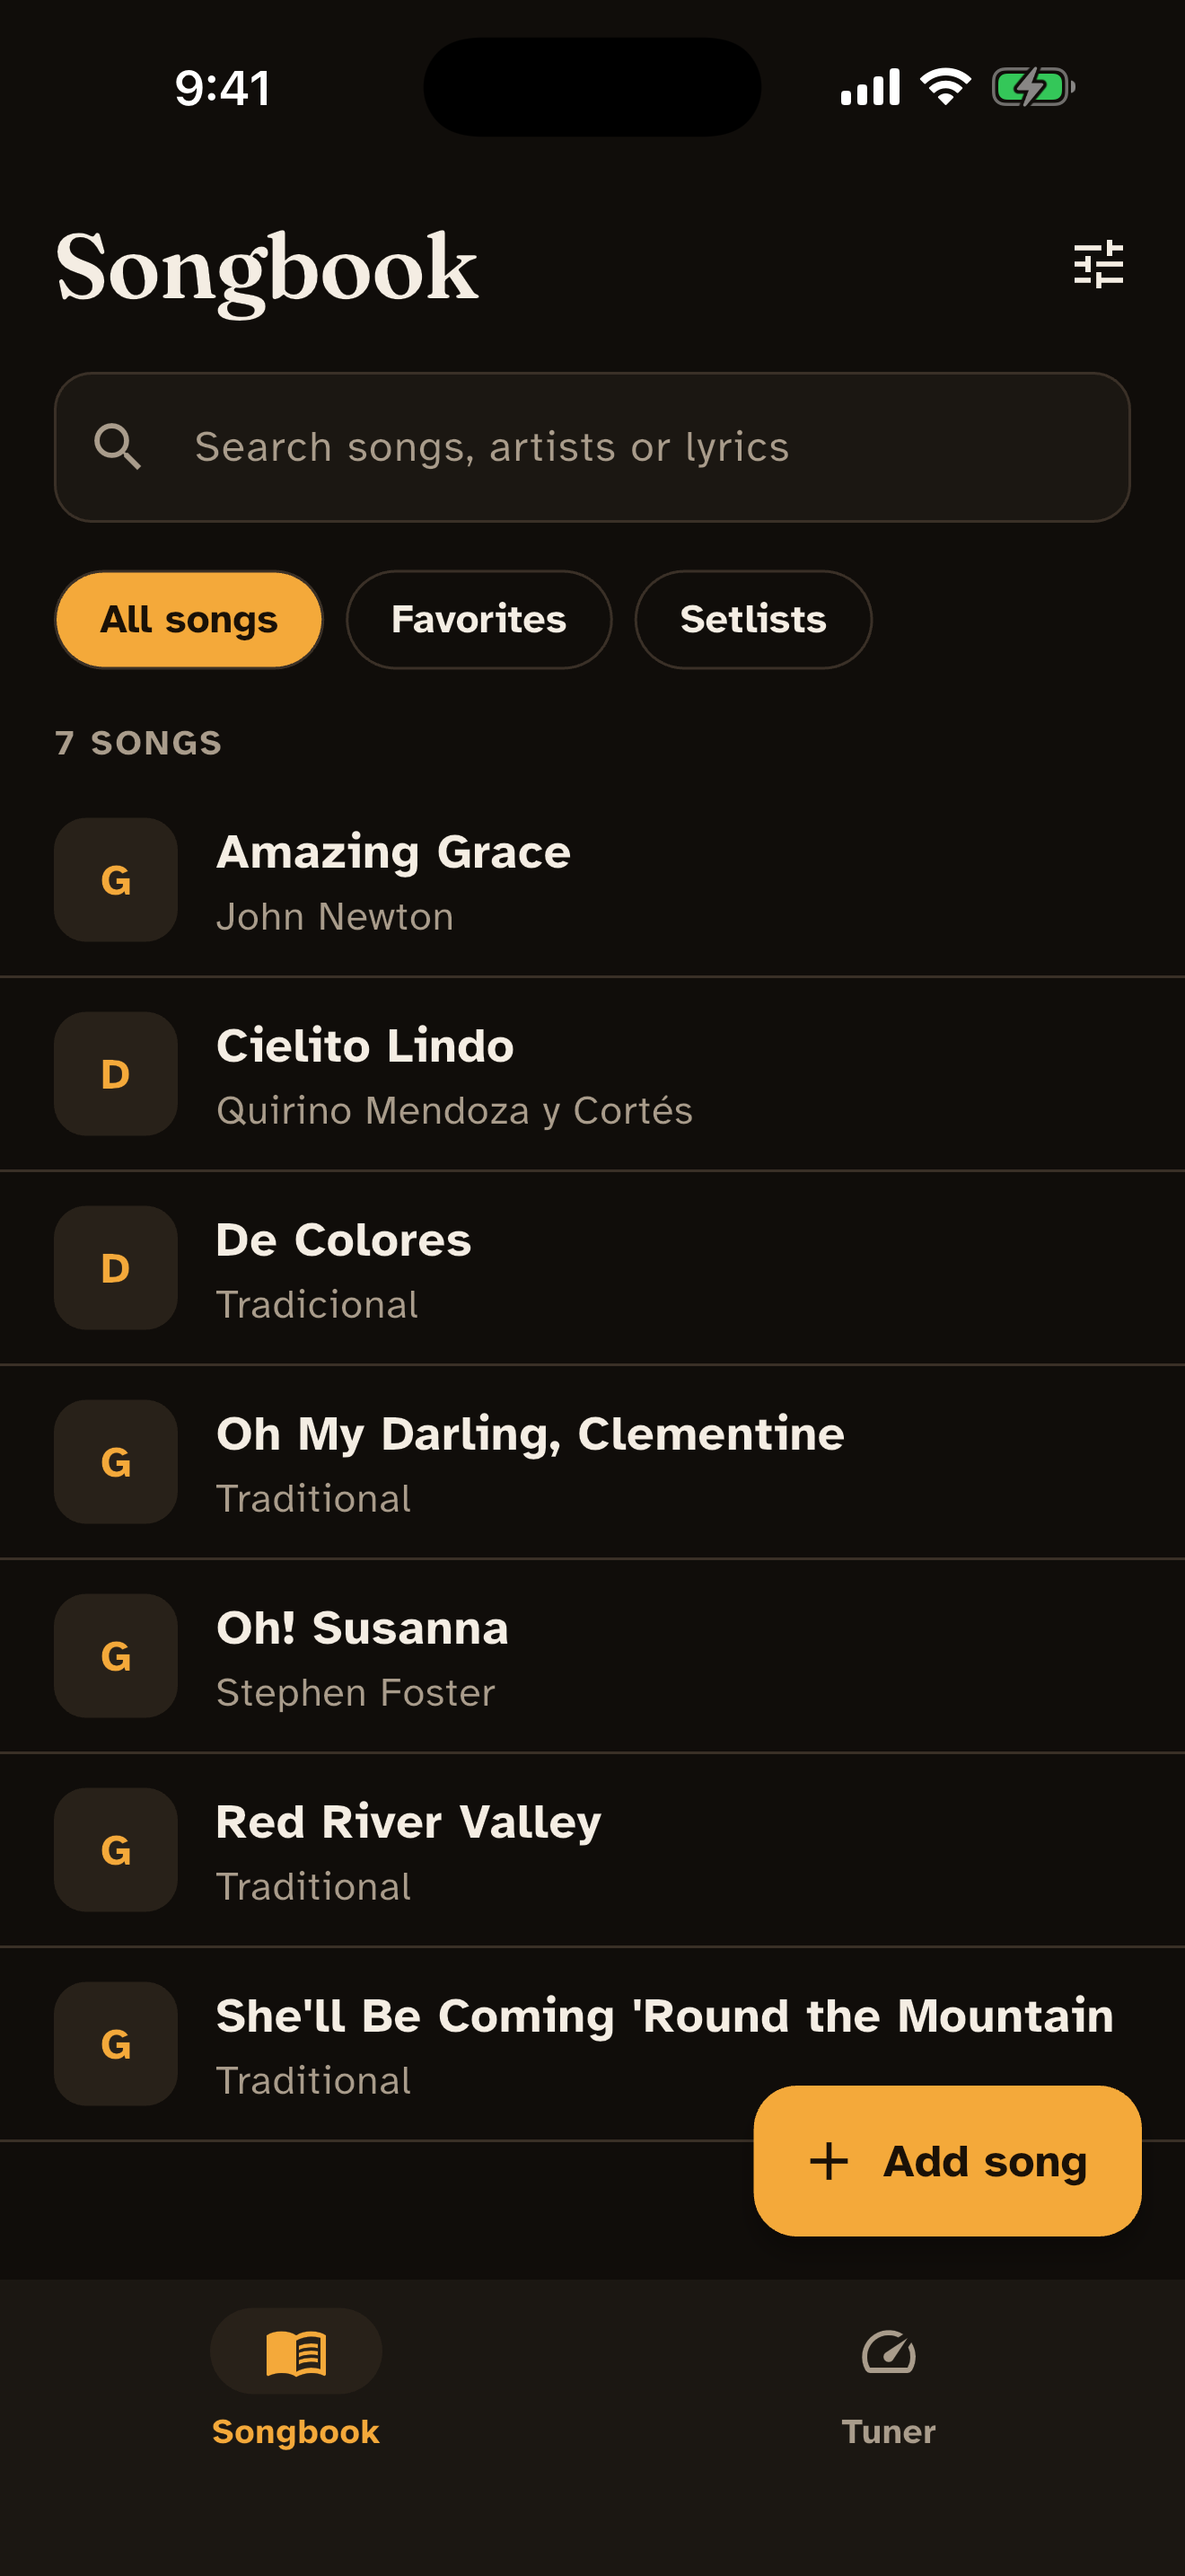
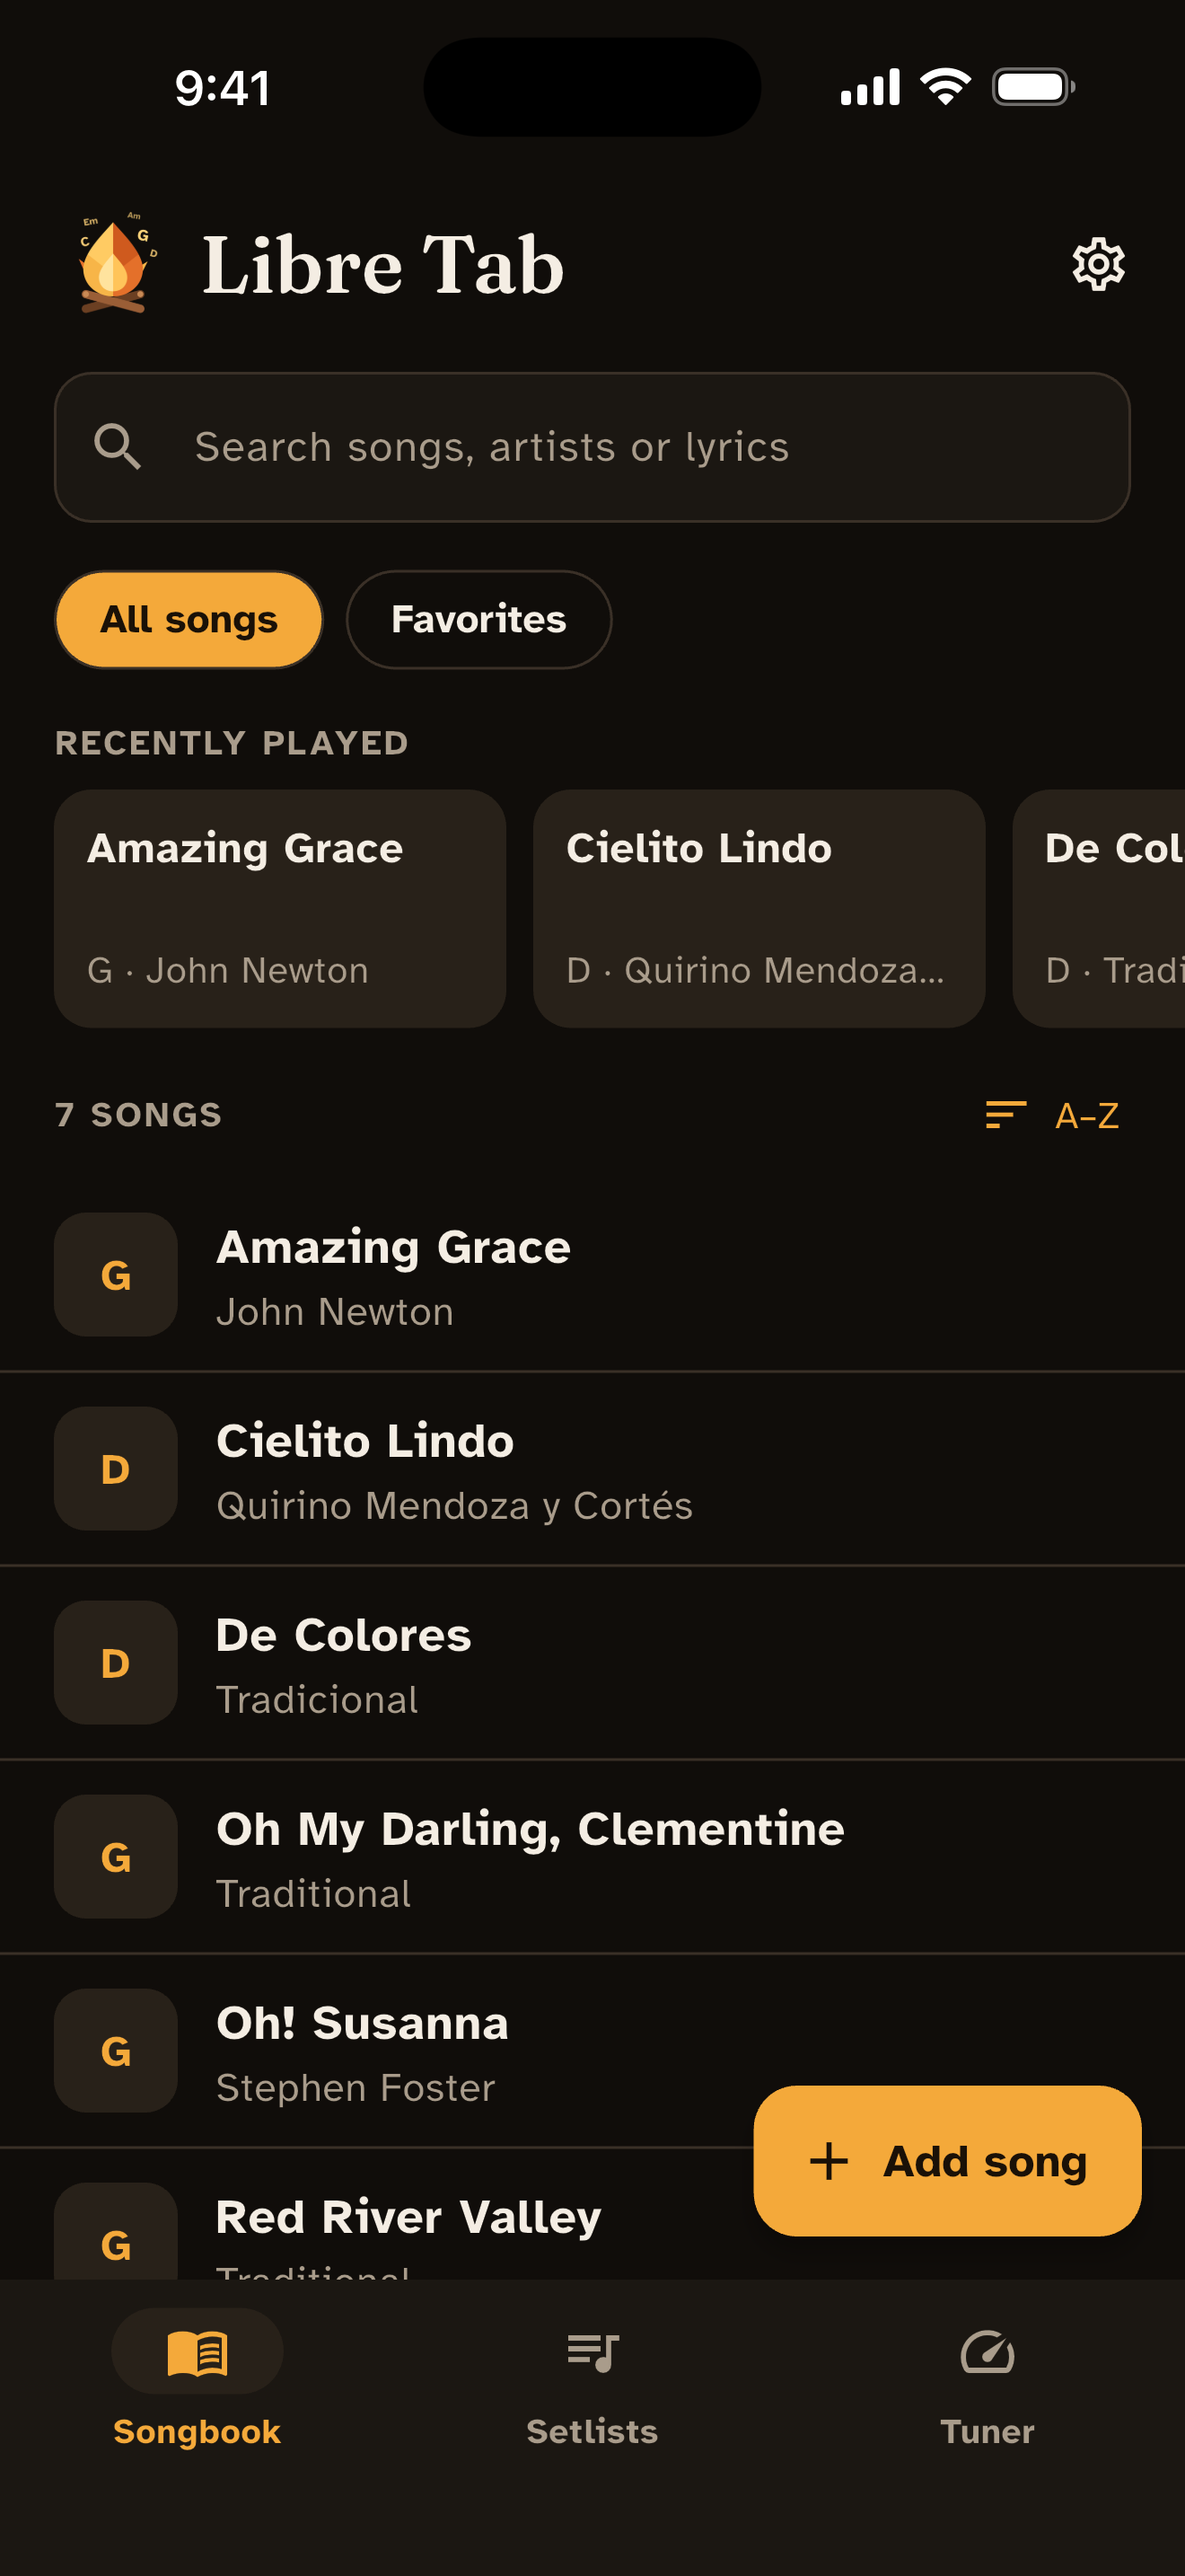
Fresh screenshots for iPhone, iPad and Android; header mark loads up front
All store screenshots retaken after the UI round, seven scenes on each
phone (now with Add song) and four on iPad: iPhone 17 Pro Max
1320 × 2868, iPad Pro 13" 2064 × 2752, Android 13 1080 × 1920, clean
status bars. The listing, the review notes and the README point at
them.

The header's flame was drawn a moment after the first frame (it
loaded on demand); both marks are now loaded as the app starts.

diff --git a/lib/app/app.dart b/lib/app/app.dart
@@ -6,6 +6,7 @@ import 'package:flutter_riverpod/flutter_riverpod.dart';
 import 'package:libre_tab/app/router.dart';
 import 'package:libre_tab/app/theme/app_theme.dart';
 import 'package:libre_tab/app/theme/theme_controller.dart';
+import 'package:libre_tab/app/widgets/app_logo.dart';
 import 'package:libre_tab/core/files/incoming_files.dart';
 import 'package:libre_tab/core/files/song_files.dart';
 import 'package:libre_tab/features/library/data/song_repository.dart';
@@ -26,6 +27,16 @@ class _LibreTabAppState extends ConsumerState<LibreTabApp> {
   void initState() {
     super.initState();
     ref.read(incomingFilesProvider).listen(_received);
+  }
+
+  @override
+  void didChangeDependencies() {
+    super.didChangeDependencies();
+    // The flame in every tab's header: loaded up front so it's there with
+    // the first frame instead of popping in after it.
+    for (final mark in BrandMark.assets) {
+      unawaited(precacheImage(AssetImage(mark), context));
+    }
   }
 
   /// A file from another app opens in Add song, as if picked with "Open

diff --git a/lib/app/widgets/app_logo.dart b/lib/app/widgets/app_logo.dart
@@ -46,11 +46,17 @@ class BrandMark extends ConsumerWidget {
 
   final double size;
 
+  static const _day = 'assets/images/mark.png';
+  static const _night = 'assets/images/mark-red-night.png';
+
+  /// Both marks, to load ahead of the first frame.
+  static const List<String> assets = [_day, _night];
+
   @override
   Widget build(BuildContext context, WidgetRef ref) {
     final night = ref.watch(themeVariantProvider) == AppThemeVariant.redNight;
     return Image.asset(
-      night ? 'assets/images/mark-red-night.png' : 'assets/images/mark.png',
+      night ? _night : _day,
       width: size,
       height: size,
       excludeFromSemantics: true,

diff --git a/docs/store/listing.md b/docs/store/listing.md
@@ -139,25 +139,26 @@ nunca quedan atrapadas.
 
 ## Screenshots and graphics
 
-`docs/store/screenshots/` — iPhone 17 Pro Max, 1320 × 2868 (App Store 6.9"
-size). Not for Google Play: Play rejects a long side more than twice the short
-one (2868 / 1320 = 2.17).
+Seven scenes, the same on every device (retaken 2026-09-24 after the UI
+round; status bar at 9:41):
 
-1. `1-songbook.png` — songbook with the starter songs
+1. `1-songbook.png` — the Libre Tab header, Recently played, the sort menu
 2. `2-song.png` — a song in campfire mode, with the dock
 3. `3-red-night-capo.png` — red-night theme, sounds in A with capo 2 (G shapes)
-4. `4-chord-diagrams.png` — chord diagrams, light theme
+4. `4-chord-diagrams.png` — chord diagrams with fret numbers, light theme
 5. `5-setlist.png` — a setlist
-6. `6-tuner.png` — the tuner (the simulator can't hear a guitar; a shot from a
-   phone with a string in tune would be better)
+6. `6-tuner.png` — the tuner listening (the ring follows the microphone)
+7. `7-add-song.png` — Add song: Paste, Scan photo, Open file
 
-iPad (13", 2064 × 2752, required because the app is universal):
-`docs/store/screenshots/ipad/` — songbook, song, chord diagrams, tuner.
-
-Google Play phone screenshots: `docs/store/screenshots/android/` — the same
-six scenes on Android 13, 1080 × 1920 (9:16, meets Play's size rules and its
-recommendation for promotion), clean status bar (demo mode, 9:41). Chord
-diagrams show the fret numbers.
+- **iPhone** 6.9" (App Store), 1320 × 2868: `docs/store/screenshots/`.
+  Not for Google Play: Play rejects a long side more than twice the short
+  one (2868 / 1320 = 2.17).
+- **iPad** 13" (required because the app is universal), 2064 × 2752:
+  `docs/store/screenshots/ipad/` — songbook, song (Cielito Lindo), chord
+  diagrams, tuner; the side rail layout.
+- **Google Play** phone, 1080 × 1920 (9:16, meets Play's size rules and its
+  recommendation for promotion), Android 13 in demo mode:
+  `docs/store/screenshots/android/`.
 
 Play feature graphic (1024 × 500): `branding/png/play-feature-1024x500.png`.
 App icon: `branding/app_icon/app-icon.png` (1024, App Store);

diff --git a/README.md b/README.md
@@ -8,10 +8,16 @@ A songbook and guitar tuner for playing around the campfire. It works fully
 offline: no account, no ads, no tracking.
 
 <p align="center">
-  <img src="docs/store/screenshots/1-songbook.png" alt="Songbook" width="200">
+  <img src="docs/store/screenshots/1-songbook.png" alt="Songbook with Recently played" width="200">
   <img src="docs/store/screenshots/2-song.png" alt="A song in campfire mode" width="200">
   <img src="docs/store/screenshots/3-red-night-capo.png" alt="Red night theme with a capo" width="200">
-  <img src="docs/store/screenshots/5-setlist.png" alt="A setlist" width="200">
+  <img src="docs/store/screenshots/6-tuner.png" alt="The tuner, listening" width="200">
+</p>
+
+<p align="center">
+  <img src="docs/store/screenshots/android/5-setlist.png" alt="A setlist, on Android" width="180">
+  <img src="docs/store/screenshots/android/7-add-song.png" alt="Add song: paste, scan or open, on Android" width="180">
+  <img src="docs/store/screenshots/ipad/2-song.png" alt="A song on iPad" width="270">
 </p>
 
 ## Features

diff --git a/docs/store/app-review.md b/docs/store/app-review.md
@@ -53,8 +53,8 @@ action, not an in-app social feature.)
 - Copyright: `2026 Bruno Fosados`
 
 **Screenshots**
-- iPhone 6.9" (1320 × 2868): `docs/store/screenshots/*.png` (6)
-- iPad 13" (2064 × 2752): `docs/store/screenshots/ipad/*.png` (3)
+- iPhone 6.9" (1320 × 2868): `docs/store/screenshots/*.png` (7)
+- iPad 13" (2064 × 2752): `docs/store/screenshots/ipad/*.png` (4)
 
 ## Notes for the reviewer
 
